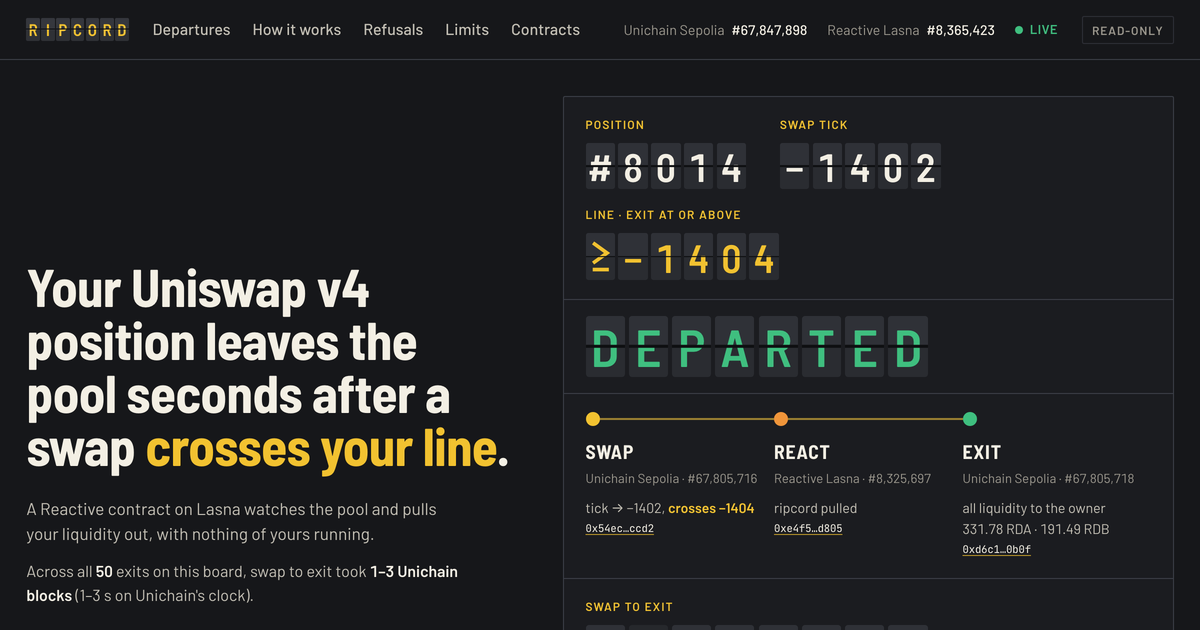
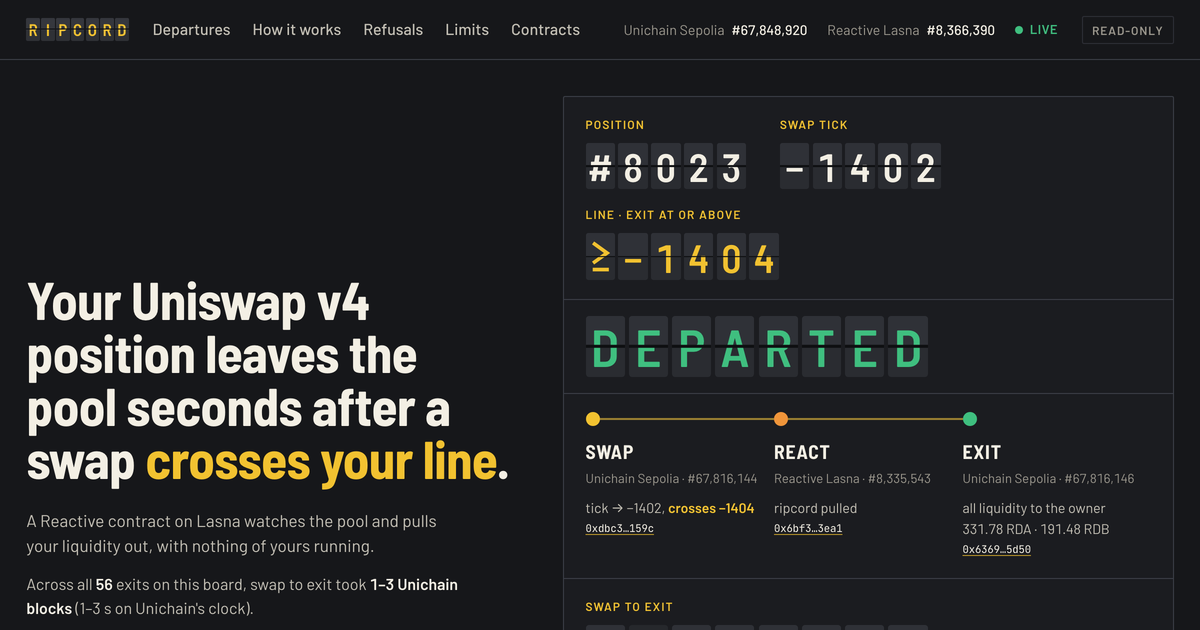
feat(web): the tryout loops stay on the board; the page features the filmed #8023 (E-025)
record-tryout.mjs reads every RipcordTryout loop from chain logs (vault Exited +
Lasna RipcordPulled): #8015 #8016 #8020 #8021 #8022 #8023, each 2 blocks / 2 s.
Board 58 positions, 56 exits, 1-3 blocks; the 50 measured loops unchanged.
Production ui-audit: no FAIL lines. Gates: eslint 0, tsc, 21 tests, build.

diff --git a/web/index.html b/web/index.html
@@ -15,7 +15,7 @@
     <meta property="og:image" content="https://ripcord-ashy.vercel.app/og.png" />
     <meta property="og:image:width" content="1200" />
     <meta property="og:image:height" content="630" />
-    <meta property="og:image:alt" content="Ripcord's departure board: a real position, DEPARTED, 2 blocks from swap to exit." />
+    <meta property="og:image:alt" content="Ripcord's departure board: position #8023, DEPARTED, 2 blocks from swap to exit, read from chain." />
     <meta name="twitter:card" content="summary_large_image" />
   </head>
   <body>

diff --git a/docs/EVIDENCE.md b/docs/EVIDENCE.md
@@ -16,7 +16,7 @@ Every public claim, and the proof behind it. Proofs are append-only. Claims are 
 | C-10 | The exit removes liquidity only. It doesn't swap, and both tokens go to whoever holds the NFT at that moment. You can disarm a line at any time. | web custody section | `RipcordVault.performExit` (DECREASE_LIQUIDITY + TAKE_PAIR to `ownerOf`), `disarm()` (E-008 tests) | verified | 2026-11-06 |
 | C-11 | Limits list: testnet only, not audited; exit lands blocks after the swap, not at your price; ≤8 lines per pool; funding required; refusals shown as cancelled with the reason; page reads public RPCs | web limits section | D-012, E-008 (ExitFailed tests), E-011 (reason decoding tested). These are statements of limitation | verified | 2026-11-06 |
 | C-12 | Your Uniswap v4 position leaves the pool seconds after a swap crosses your line. | web hero h1 | E-012 (10 of 10 loops exited 2–3 Unichain blocks, 2–3 s on Unichain's clock, after the crossing swap) | verified | 2026-11-06 |
-| C-13 | Across all {n} exits on this board, swap to exit took {lo}–{hi} Unichain blocks ({lo}–{hi} s on Unichain's clock). | web hero, computed at render from the exits the page reads (receipts by hash + live logs) | E-012, E-013, E-019 for the 50 recorded loops (renders "50", "1–3", "1–3" after the 2026-11-14 sync); any live exit is computed the same way from its own blocks | verified | 2026-11-06 |
+| C-13 | Across all {n} exits on this board, swap to exit took {lo}–{hi} Unichain blocks ({lo}–{hi} s on Unichain's clock). | web hero, computed at render from the exits the page reads (receipts by hash + live logs) | E-012, E-013, E-019 for the 50 measured loops, plus the 6 RipcordTryout loops recorded 2026-11-15 (E-025): renders "56", "1–3", "1–3"; any live exit is computed the same way from its own blocks | verified | 2026-11-06 |
 | C-14 | A Reactive contract on Lasna watches the pool and pulls your liquidity out, with nothing of yours running. | web hero | C-6, C-7, C-8 (E-008, E-009, E-011, E-012) | verified | 2026-11-06 |
 | C-15 | Exits each balance covers at the cost of the last loop (#N). While a line is armed, every swap in its pool also bills a reaction. | web board service strip (live: "16 EXITS" lREACT, "2,210 EXITS" ETH today) | `web/src/chain/funding.ts`: charges read as each holder's balance drop at the blocks that charged it (LineTracked + firing reaction on Lasna; the exit block on Unichain), checked against hand reads for #7947 and #7953; E-013 shows it re-pricing after #7954. Second sentence: the pool's Swap subscription is live while a line is armed (`RipcordReactive.sol:109`, dropped when the last line fires at `:174`), and a reaction that requests no callback is still billed: #7947's LineTracked reaction cost 0.0209 lREACT (Lasna block 7,698,578) | verified | 2026-11-06 |
 | C-16 | #N's owner, from the PositionManager: the block before its exit … ; now … , the same wallet. | web custody section, read live (`ownerOf` at exit block − 1 and latest) | renders #7954 → 0x08e7…9111 both times today; C-9 | verified | 2026-11-06 |
@@ -74,3 +74,4 @@ Every public claim, and the proof behind it. Proofs are append-only. Claims are 
 | E-022 | 2026-11-14 | **The filmed loop: #8022.** Recorded for the demo video from the public page (Chrome screencast, 1920×1080, Playwright, `video/capture/capture.mjs`) while the project wallet sent RipcordTryout `arm()` (0x1129…9f84) and `cross(8022)` (swap 0xeabe…5155, Unichain #67,809,154). Lasna reaction 0xe016…4ac2 (#8,328,934); exit 0x0273…ae5a (#67,809,156): **2 blocks, 2 s** on Unichain's clock, line status 2. Page showed ARMED → BOARDING → DEPARTED in one take; 0 console errors, 0 failed requests; one 6 s STALE flag before the cross. An earlier take (#8021, also 2 s) was dropped: the page's RPC went unreachable for ~8 s during its boarding. Lasna's block is stamped 1 s before the swap's (cross-chain clock skew; no claim uses it). Video `video/out/ripcord-final.mp4`: 2:15, 1080p, −16 LUFS, narration ElevenLabs (voice Daniel), each line mapped to a claims row in docs/VIDEO.md | `docs/evidence/m3/video/loop-8022.json` + 4 raw receipts | this commit |
 | E-023 | 2026-11-14 | **The film's loop: #8023, and the v2 film.** Shot for the re-cut on Warrant's film system (`internal/film/`, gitignored) from the public page at 2x through Chrome's screencast, while the project wallet sent RipcordTryout `arm()` (0x5cc8…6da1) and `cross(8023)` (swap 0xdbc3…159c, Unichain #67,816,144). Lasna reaction 0x6bf3…3ea1 (#8,335,543); exit 0x6369…5d50 (#67,816,146), sent by Reactive's relayer 0xF7E8…1DDb: **2 blocks, 2 s** on Unichain's clock; the page's meter read "2 BLOCKS"; line status 2. 0 console errors, 0 failed requests. Read-only `cast` checks run during the shoot are kept verbatim in the evidence file and shown in the film's terminal. Explorers: Blockscout (Unichain Sepolia) and Reactscan (Lasna); Uniscan shows headless browsers a Cloudflare bot check. Film `internal/film/film/ripcord-master.mp4`: 2:26, 1080p, −15.9 LUFS (linear loudnorm), 0 silences over 0.35 s; voice ElevenLabs Daniel (1,451 characters) | `docs/evidence/m3/video/loop-8023.json` + 4 raw receipts | this commit |
 | E-024 | 2026-11-15 | **The first screen without waiting.** The build reads the chain once with the page's own code (`web/scripts/snapshot.mjs` → `src/data/snapshot.json`: 52 positions, both heads, pool tick, the refusal room) and server-renders the page from it into `dist/index.html` (`scripts/prerender.mjs`, 220 kB of HTML). The live app starts from that snapshot, labelled "As of Unichain block #N, read <time> UTC" in the departure panel and "AS OF #N" in the header until the first live poll answers. Link preview: `og.png` captured from the built page (1200×630) with `og:` tags and a large X card. `ui-audit.mjs` on https://ripcord-ashy.vercel.app: no FAIL lines; readable without JavaScript (4,142 words, h1 present); link-preview image 200 image/png; departure visible 2.2 s desktop, 2.2 s phone (re-run; first run 3.1 s desktop), down from 5–6 s; CLS 0.028 / 0.001; console clean. Before: no words without JS, no og:image | `internal/design/` audit screenshots (scratchpad), this commit | this commit |
+| E-025 | 2026-11-15 | **The tryout loops stay on the board.** `web/scripts/record-tryout.mjs` read every RipcordTryout loop from chain logs (the vault's `Exited`, which carries the crossing swap's hash, and Lasna's `RipcordPulled`): #8015, #8016, #8020, #8021, #8022, #8023, each **2 blocks, 2 s** from swap to exit, each with its Lasna reaction; #8022 and #8023 match E-022 and E-023. `sync-evidence` now adds them to the recorded history, so the page keeps featuring the filmed #8023 after it leaves the live poll's window (it had fallen back to #8014). Board: 58 positions, 56 exits, 1–3 blocks. The 50 measured loops (C-27) are unchanged. Production re-audited: no FAIL lines, departure visible 2.4 s, `og.png` re-captured showing #8023 | `docs/evidence/m3/tryout/loops.json` | this commit |

diff --git a/docs/STATE.md b/docs/STATE.md
@@ -39,7 +39,6 @@ Deploy the web with `web/scripts/deploy-vercel.sh` (prebuilt static, no source m
 - Not checked yet: the public page on a phone over cellular (preflight, M4).
 - The flap's two-half fall is judged from code; at 130 ms per step it can't be captured frame by frame.
 - **Submitted to DoraHacks on 2026-11-14** (track Every Second Counts; the user pressed submit). Film on YouTube https://youtu.be/cIcXnYkJFyo, which plays logged out (oEmbed 200, 2026-11-14). Still to check: whether that upload is the final 2:35 cut or the 2:36 one before it. The README doesn't link the video yet.
-- The featured departure falls back to #8014 a few hours after a tryout loop: the live poll scans only recent blocks and the tryout loops (#8015–#8023) aren't in `runs.json`, so they drop off the board. Adding them to the recorded history would keep the filmed #8023 featured.
 
 ## Claims not yet verified
 - None. (C-2 verified 2026-11-14 from E-018.)
